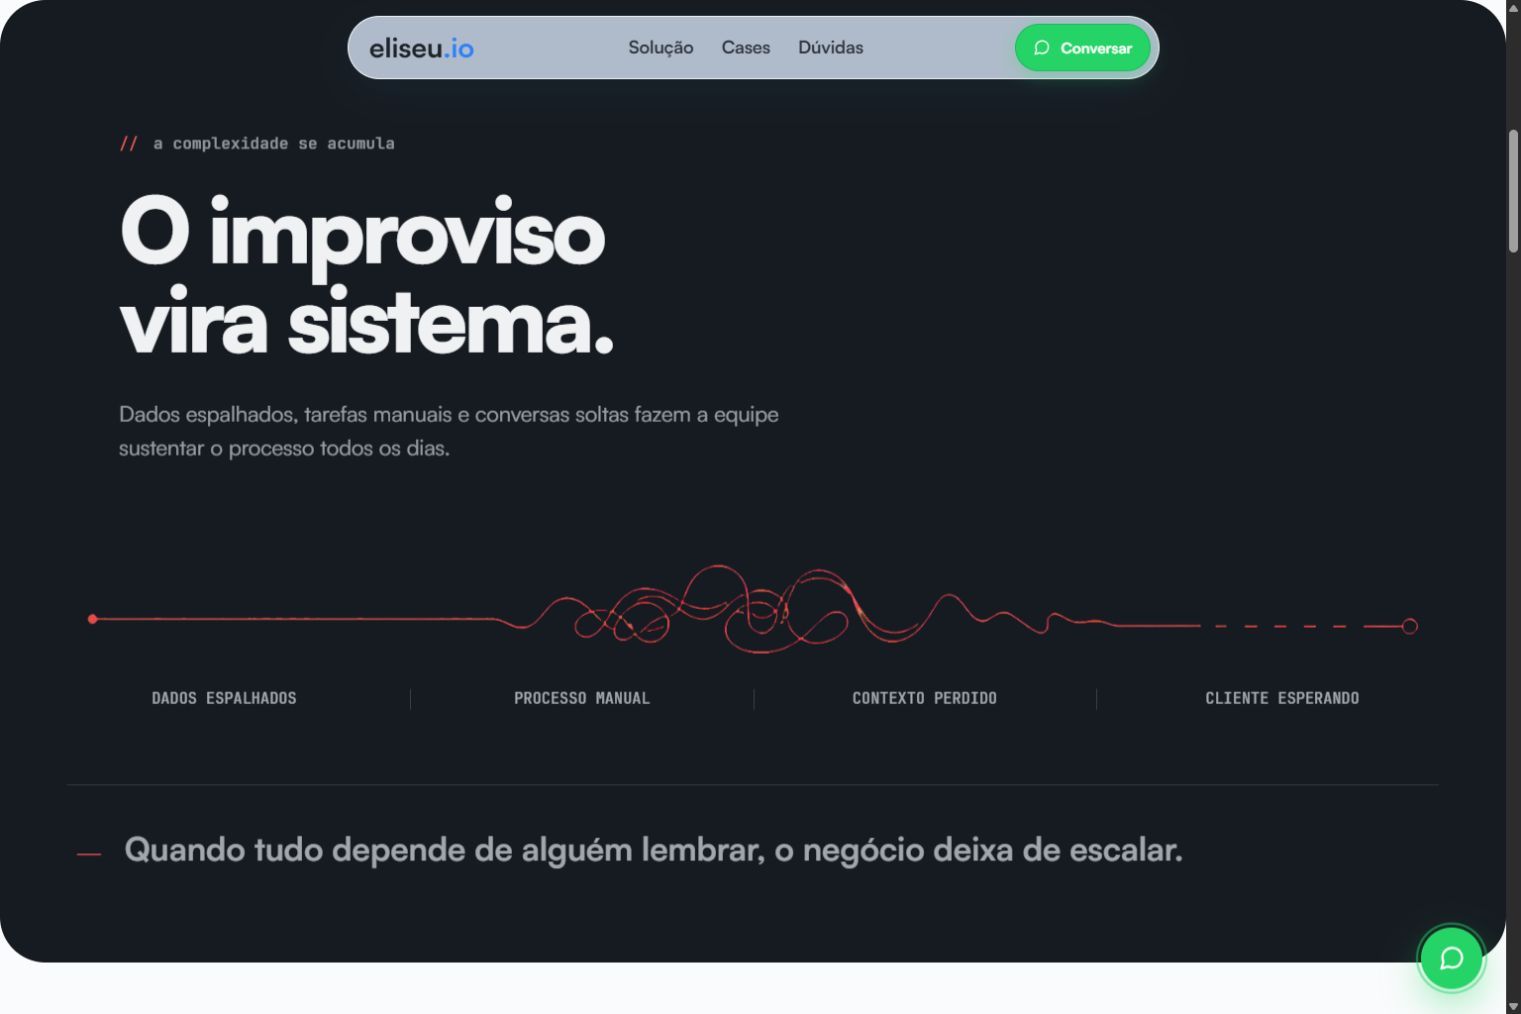
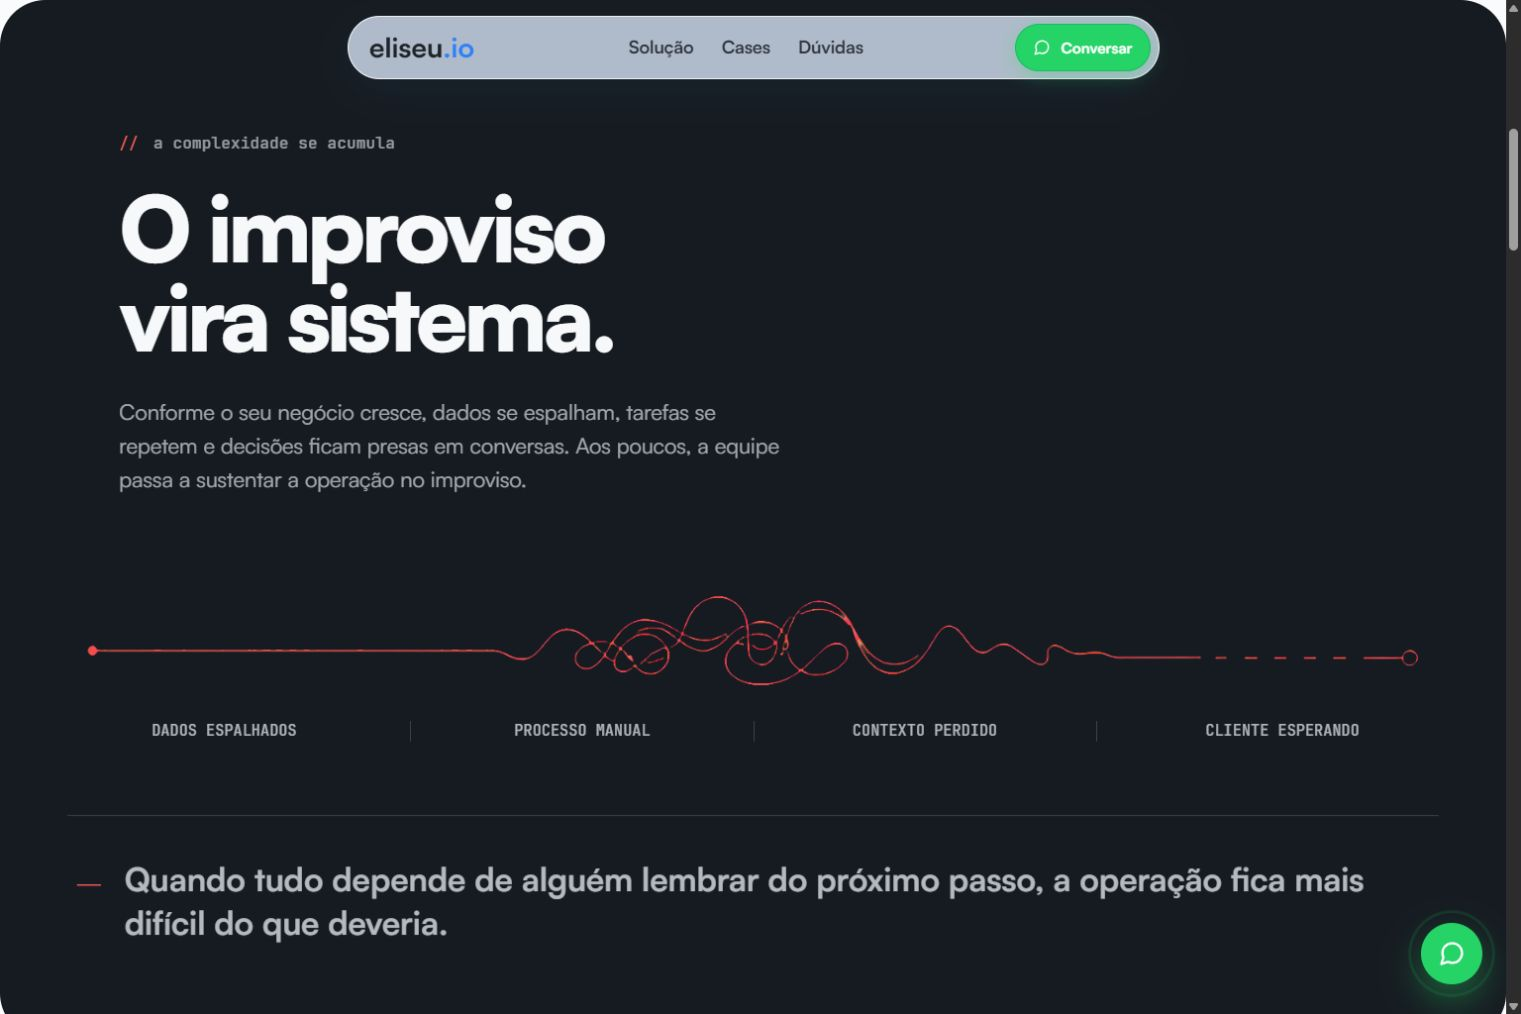
Clarify problem section narrative

diff --git a/index.html b/index.html
@@ -23,7 +23,7 @@
       y=l.getElementsByTagName(r)[0];y.parentNode.insertBefore(t,y);
     })(window, document, "clarity", "script", "x92ymctnva");
   </script>
-  <link rel="stylesheet" href="styles.css">
+  <link rel="stylesheet" href="styles.css?v=20260808-problem-story">
 </head>
 <body>
 
@@ -108,7 +108,7 @@
         <p class="eyebrow" data-reveal><span aria-hidden="true">//</span> a complexidade se acumula</p>
         <h2 data-reveal data-delay="1">O improviso<br>vira sistema.</h2>
         <p class="problem-lead" data-reveal data-delay="2">
-          Dados espalhados, tarefas manuais e conversas soltas fazem a equipe sustentar o processo todos os dias.
+          Conforme o seu negócio cresce, dados se espalham, tarefas se repetem e decisões ficam presas em conversas. Aos poucos, a equipe passa a sustentar a operação no improviso.
         </p>
       </header>
 
@@ -117,7 +117,7 @@
           <source media="(max-width: 640px)" srcset="assets/problem-tension-line-mobile.png">
           <img src="assets/problem-tension-line.png" alt="">
         </picture>
-        <figcaption class="problem-labels" aria-label="Sinais de complexidade acumulada">
+        <figcaption class="problem-labels" aria-label="Como a complexidade se acumula na operação">
           <span>Dados espalhados</span>
           <span>Processo manual</span>
           <span>Contexto perdido</span>
@@ -127,7 +127,7 @@
 
       <blockquote class="problem-quote" data-reveal data-delay="3">
         <span aria-hidden="true">—</span>
-        <p>Quando tudo depende de alguém lembrar, o negócio deixa de escalar.</p>
+        <p>Quando tudo depende de alguém lembrar do próximo passo, a operação fica mais difícil do que deveria.</p>
       </blockquote>
     </div>
   </section>

diff --git a/design-qa.md b/design-qa.md
@@ -606,3 +606,54 @@ final result: passed
 Não restam diferenças P0, P1 ou P2 relacionadas a este ajuste.
 
 final result: passed
+
+---
+
+# Design QA — narrativa da seção Problema
+
+## Fonte visual e estado
+
+- Fonte visual: `C:\Users\Eliseu Santos\.codex\generated_images\019fe213-b315-7c23-871d-ac4b0c2d707d\exec-f374d900-e42b-4600-9b8d-427403bf0d32.png`, 1631 × 964 px.
+- Implementação desktop: `qa\problem\implementation-desktop.png`, 1521 × 1014 px úteis em viewport 1536 × 1024 CSS px, DPR 1.
+- Implementação mobile: `qa\problem\implementation-mobile.png`, 375 × 812 px úteis em viewport 390 × 844 CSS px, DPR 1.
+- Estado: seção revelada, sem interação própria; header e WhatsApp persistentes pertencem ao shell real.
+
+## Evidência de comparação
+
+- Comparação combinada: `qa\problem\comparison-copy-reference-vs-implementation.png`.
+- A referência permanece a fonte de layout, tipografia, linha e hierarquia. A copy diverge intencionalmente por solicitação do usuário.
+- O comparativo completo mantém todos os elementos legíveis; não foi necessário recorte focado adicional.
+
+## Histórico de comparação e correções
+
+- P2 — A primeira copy nomeava sintomas isolados, mas não deixava claro que eles surgiam dentro da operação do próprio cliente.
+- P2 — A primeira revisão desviou o foco para sistemas e conexão, alterando o teor aprovado e a promessa de simplificar operações.
+
+Correções:
+
+- O eyebrow, a headline e os quatro conceitos aprovados foram restaurados: complexidade acumulada, improviso, dados espalhados, processo manual, contexto perdido e cliente esperando.
+- O parágrafo agora conta uma história curta: conforme o negócio cresce, os sintomas se acumulam até a equipe sustentar a operação no improviso.
+- O fechamento conecta essa história à promessa da Eliseu.io: “Quando tudo depende de alguém lembrar do próximo passo, a operação fica mais difícil do que deveria.”
+- O `max-width` original de `9ch` foi restaurado e o CSS recebeu `?v=20260808-problem-story` para evitar cache antigo.
+
+Evidência pós-correção: `qa\problem\implementation-desktop.png`, `qa\problem\implementation-mobile.png` e `qa\problem\comparison-copy-reference-vs-implementation.png`.
+
+## Superfícies de fidelidade
+
+- Tipografia: famílias, pesos e escalas aprovados foram preservados; a headline original ocupa duas linhas no desktop e duas no mobile.
+- Espaçamento e layout: a nova narrativa mantém a composição do mock; a seção mede aproximadamente 1049 px no desktop e 849 px no mobile.
+- Cores e tokens: nenhum token cromático foi alterado.
+- Imagens e ativos: os ativos desktop e mobile da linha permanecem intactos, transparentes e nítidos.
+- Copy: eyebrow, headline, parágrafo, rótulos e conclusão formam uma história única sobre a complexidade que se acumula na operação do cliente.
+
+## Validação funcional e responsiva
+
+- Nenhum overflow horizontal em 1536 px ou 390 px.
+- O navegador selecionou corretamente `problem-tension-line-mobile.png` no breakpoint móvel.
+- Nenhuma imagem quebrada e nenhum erro ou aviso no console.
+- A seção não introduz controles; navegação e CTAs existentes não foram alterados.
+- `node --check script.js` e `git diff --check` passaram.
+
+Não restam diferenças P0, P1 ou P2 após a restauração do teor aprovado e a organização da narrativa operacional.
+
+final result: passed
